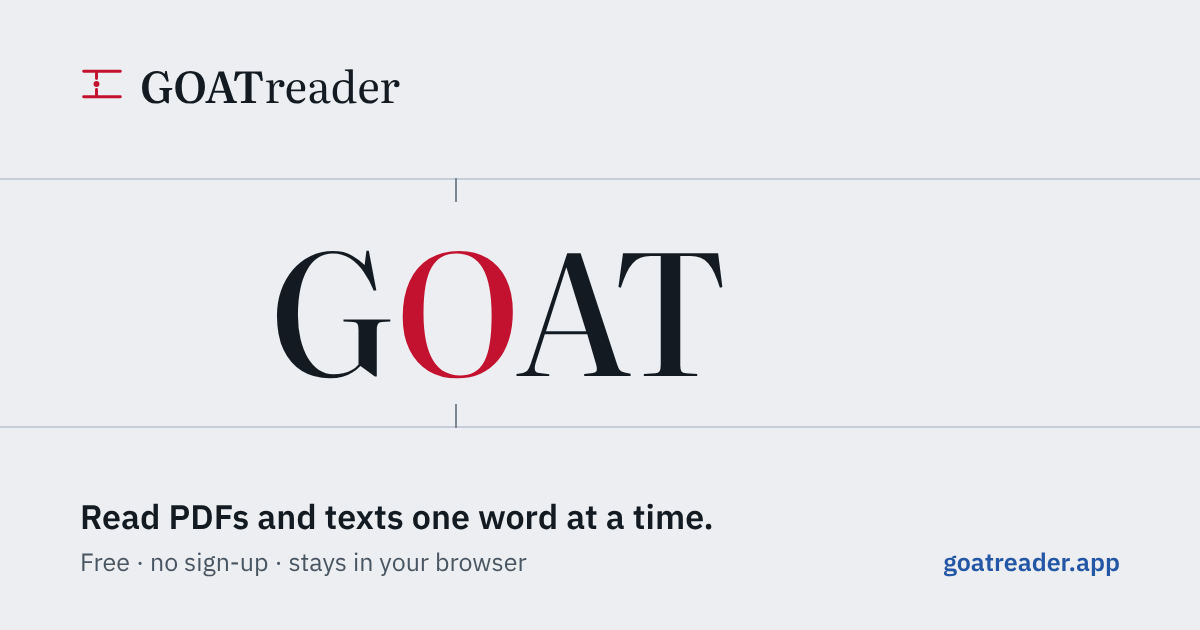
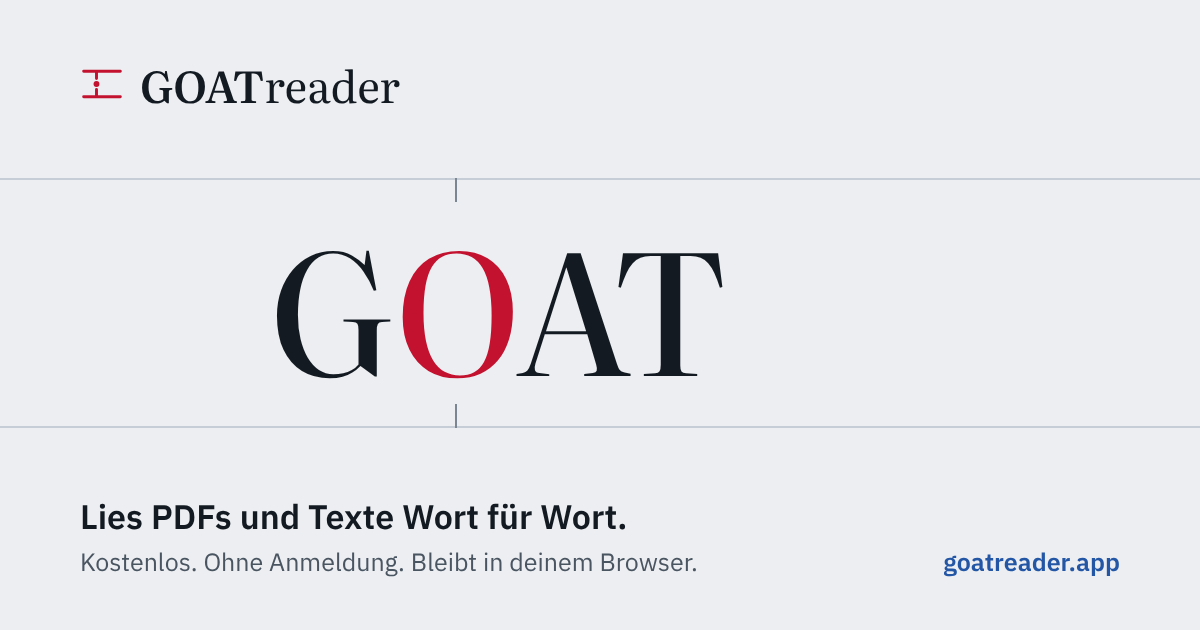
German first: browser language, German preview

Changed region(s): [[0.0617, 0.7841, 0.5858, 0.8444], [0.0617, 0.8746, 0.5858, 0.9349]]

diff --git a/privacy.html b/privacy.html
@@ -1,9 +1,9 @@
 <!doctype html>
-<html lang="en">
+<html lang="de">
 <head>
 <meta charset="utf-8">
 <meta name="viewport" content="width=device-width,initial-scale=1">
-<title>Privacy policy · GOATreader</title>
+<title>GOATreader: Datenschutzerklärung</title>
 <meta name="robots" content="noindex">
 <link rel="icon" href="icon.svg" type="image/svg+xml">
 <link rel="icon" href="favicon-32.png" type="image/png" sizes="32x32">
@@ -18,40 +18,6 @@
       <button type="button" data-lang="en" lang="en" title="English" aria-pressed="true">EN</button><button type="button" data-lang="de" lang="de" title="Deutsch" aria-pressed="false">DE</button>
     </div>
   </nav>
-<section lang="en" data-l="en">
-  <h1>Privacy policy</h1>
-  <p class="muted">As of October 2026. This is a translation; the German version is legally binding.</p>
-
-  <h2>The short version</h2>
-  <p>GOATreader runs entirely in your browser. Texts and files you load or paste are not sent to us or to anyone else. There are no cookies, no tracking, no analytics, and no fonts or scripts from other servers. All files of this website come from the same server.</p>
-
-  <h2>Controller</h2>
-  <p class="address">Victor Batschkus<br>Reinmarplatz 5<br>80637 München<br>Germany<br>Email: <a href="mailto:hello@goatreader.app">hello@goatreader.app</a></p>
-
-  <h2>Hosting</h2>
-  <p>This website is served by GitHub Pages, a service of GitHub, Inc. (San Francisco, USA). When you open the site, GitHub processes the connection data needed to deliver it, for example your IP address, date and time, the requested file and information about your browser. This is needed to deliver the site and to keep the service secure. The legal basis is our legitimate interest in a secure and reliable website (Art. 6(1)(f) GDPR).</p>
-  <p>GitHub processes this data under its own responsibility and, according to GitHub, stores visitors' IP addresses for security purposes. GitHub decides how long (according to GitHub, depending on the purpose and on legal obligations); we have no influence on this and do not receive this data. Data may be transferred to the USA. GitHub is certified under the EU-U.S. Data Privacy Framework, for which the European Commission has adopted an adequacy decision (Art. 45 GDPR).</p>
-  <p>More information: <a href="https://docs.github.com/en/site-policy/privacy-policies/github-general-privacy-statement" rel="noopener">GitHub General Privacy Statement</a></p>
-
-  <h2>Reading PDFs and texts</h2>
-  <p>PDFs are read directly in your browser with the pdf.js library. Texts you paste and files you load never leave your device.</p>
-
-  <h2>Storage on your device</h2>
-  <p>So that GOATreader can keep your recently read texts, your reading position, your settings and your language, the site stores this data in your browser's local storage (localStorage) until you delete it. It stays on your device and is never transmitted. Storing it is strictly necessary to provide the features you use (§ 25(2) no. 2 TDDDG). You can remove single texts in the app under “Load”; to delete everything, clear this site's data in your browser settings.</p>
-
-  <h2>Contact by email</h2>
-  <p>If you email us, we process your email address and your message in order to reply. The legal basis is our legitimate interest in answering enquiries (Art. 6(1)(f) GDPR), or Art. 6(1)(b) GDPR if your enquiry concerns a contract. IONOS SE (Montabaur, Germany) forwards emails sent to hello@goatreader.app on our behalf to a Gmail mailbox (Google Ireland Limited, Ireland). Data may be transferred to the USA in the process. Google LLC is certified under the EU-U.S. Data Privacy Framework, for which the European Commission has adopted an adequacy decision (Art. 45 GDPR). We delete your message once the matter is settled, unless we are legally required to keep it.</p>
-
-  <h2>No obligation, no automated decisions</h2>
-  <p>You are not obliged to provide any data. Without connection data, however, the website cannot be displayed. There is no automated decision-making or profiling.</p>
-
-  <h2>Your rights</h2>
-  <p>Under the GDPR you have the right of access (Art. 15), rectification (Art. 16), erasure (Art. 17), restriction of processing (Art. 18) and data portability (Art. 20). You can also lodge a complaint with a data protection supervisory authority (Art. 77), for example the <a href="https://www.lda.bayern.de/" rel="noopener">Bavarian Data Protection Authority (BayLDA)</a>. Apart from emails you send us, we do not store any personal data about you. Only GitHub can give information about the hosting connection data.</p>
-
-  <h2>Right to object</h2>
-  <p><strong>Where we process data on the basis of Art. 6(1)(f) GDPR, you may object at any time on grounds relating to your particular situation (Art. 21(1) GDPR).</strong> An email to <a href="mailto:hello@goatreader.app">hello@goatreader.app</a> is sufficient.</p>
-  <p class="other"><a href="legal.html">Legal notice</a></p>
-</section>
 <section lang="de" data-l="de">
   <h1>Datenschutzerklärung</h1>
   <p class="muted">Stand: Oktober 2026</p>
@@ -86,16 +52,53 @@
   <p><strong>Soweit wir Daten auf Grundlage von Art. 6 Abs. 1 lit. f DSGVO verarbeiten, kannst du aus Gründen, die sich aus deiner besonderen Situation ergeben, jederzeit widersprechen (Art. 21 Abs. 1 DSGVO).</strong> Eine E-Mail an <a href="mailto:hello@goatreader.app">hello@goatreader.app</a> genügt.</p>
   <p class="other"><a href="legal.html">Impressum</a></p>
 </section>
+<section lang="en" data-l="en">
+  <h1>Privacy policy</h1>
+  <p class="muted">As of October 2026. This is a translation; the German version is legally binding.</p>
+
+  <h2>The short version</h2>
+  <p>GOATreader runs entirely in your browser. Texts and files you load or paste are not sent to us or to anyone else. There are no cookies, no tracking, no analytics, and no fonts or scripts from other servers. All files of this website come from the same server.</p>
+
+  <h2>Controller</h2>
+  <p class="address">Victor Batschkus<br>Reinmarplatz 5<br>80637 München<br>Germany<br>Email: <a href="mailto:hello@goatreader.app">hello@goatreader.app</a></p>
+
+  <h2>Hosting</h2>
+  <p>This website is served by GitHub Pages, a service of GitHub, Inc. (San Francisco, USA). When you open the site, GitHub processes the connection data needed to deliver it, for example your IP address, date and time, the requested file and information about your browser. This is needed to deliver the site and to keep the service secure. The legal basis is our legitimate interest in a secure and reliable website (Art. 6(1)(f) GDPR).</p>
+  <p>GitHub processes this data under its own responsibility and, according to GitHub, stores visitors' IP addresses for security purposes. GitHub decides how long (according to GitHub, depending on the purpose and on legal obligations); we have no influence on this and do not receive this data. Data may be transferred to the USA. GitHub is certified under the EU-U.S. Data Privacy Framework, for which the European Commission has adopted an adequacy decision (Art. 45 GDPR).</p>
+  <p>More information: <a href="https://docs.github.com/en/site-policy/privacy-policies/github-general-privacy-statement" rel="noopener">GitHub General Privacy Statement</a></p>
+
+  <h2>Reading PDFs and texts</h2>
+  <p>PDFs are read directly in your browser with the pdf.js library. Texts you paste and files you load never leave your device.</p>
+
+  <h2>Storage on your device</h2>
+  <p>So that GOATreader can keep your recently read texts, your reading position, your settings and your language, the site stores this data in your browser's local storage (localStorage) until you delete it. It stays on your device and is never transmitted. Storing it is strictly necessary to provide the features you use (§ 25(2) no. 2 TDDDG). You can remove single texts in the app under “Load”; to delete everything, clear this site's data in your browser settings.</p>
+
+  <h2>Contact by email</h2>
+  <p>If you email us, we process your email address and your message in order to reply. The legal basis is our legitimate interest in answering enquiries (Art. 6(1)(f) GDPR), or Art. 6(1)(b) GDPR if your enquiry concerns a contract. IONOS SE (Montabaur, Germany) forwards emails sent to hello@goatreader.app on our behalf to a Gmail mailbox (Google Ireland Limited, Ireland). Data may be transferred to the USA in the process. Google LLC is certified under the EU-U.S. Data Privacy Framework, for which the European Commission has adopted an adequacy decision (Art. 45 GDPR). We delete your message once the matter is settled, unless we are legally required to keep it.</p>
+
+  <h2>No obligation, no automated decisions</h2>
+  <p>You are not obliged to provide any data. Without connection data, however, the website cannot be displayed. There is no automated decision-making or profiling.</p>
+
+  <h2>Your rights</h2>
+  <p>Under the GDPR you have the right of access (Art. 15), rectification (Art. 16), erasure (Art. 17), restriction of processing (Art. 18) and data portability (Art. 20). You can also lodge a complaint with a data protection supervisory authority (Art. 77), for example the <a href="https://www.lda.bayern.de/" rel="noopener">Bavarian Data Protection Authority (BayLDA)</a>. Apart from emails you send us, we do not store any personal data about you. Only GitHub can give information about the hosting connection data.</p>
+
+  <h2>Right to object</h2>
+  <p><strong>Where we process data on the basis of Art. 6(1)(f) GDPR, you may object at any time on grounds relating to your particular situation (Art. 21(1) GDPR).</strong> An email to <a href="mailto:hello@goatreader.app">hello@goatreader.app</a> is sufficient.</p>
+  <p class="other"><a href="legal.html">Legal notice</a></p>
+</section>
 </main>
 <script>
 (() => {
-  const KEY = 'goatreader.lang', TITLES = {en: 'Privacy policy · GOATreader', de: 'Datenschutzerklärung · GOATreader'};
-  let lang = 'en';
+  const KEY = 'goatreader.lang', TITLES = {en: 'GOATreader: Privacy policy', de: 'GOATreader: Datenschutzerklärung'}, ok = l => Object.keys(TITLES).includes(l);
+  // Wie in der App: ?lang in der Adresse (wird gemerkt) > gespeicherte Wahl > Browsersprache > Englisch.
+  // Die Browsersprache zählt, wenn die erste bevorzugte Sprache Deutsch ist (de, de-DE, de-AT …); gespeichert wird sie nicht.
+  const nav = typeof navigator === 'undefined' || !navigator ? [] : navigator.languages && navigator.languages.length ? navigator.languages : [navigator.language];
+  let lang = /^de(?![a-z])/i.test(String(nav[0] || '')) ? 'de' : 'en';
   try {
     const q = (new URLSearchParams(location.search).get('lang') || '').toLowerCase();
-    if (TITLES[q]) { lang = q; localStorage.setItem(KEY, JSON.stringify(q)); }
-    else { const v = JSON.parse(localStorage.getItem(KEY)); if (TITLES[v]) lang = v; }
-  } catch { /* kein Speicher: Englisch */ }
+    if (ok(q)) { lang = q; localStorage.setItem(KEY, JSON.stringify(q)); }
+    else { const v = JSON.parse(localStorage.getItem(KEY)); if (ok(v)) lang = v; }
+  } catch { /* kein Speicher: Browsersprache */ }
   function show(l) {
     document.documentElement.lang = l;
     document.title = TITLES[l];

diff --git a/index.html b/index.html
@@ -1,22 +1,24 @@
 <!doctype html>
-<html lang="en">
+<html lang="de">
 <head>
 <meta charset="utf-8">
 <meta name="viewport" content="width=device-width,initial-scale=1,viewport-fit=cover">
-<title>GOATreader · Read PDFs and texts word by word</title>
-<meta name="description" content="GOATreader shows PDFs and texts one word at a time, with a focus letter, sentence rewind, context view and honest speed numbers. Free, no sign-up, everything stays in your browser.">
+<title>GOATreader: PDFs und Texte Wort für Wort lesen</title>
+<meta name="description" content="GOATreader zeigt PDFs und Texte Wort für Wort, mit Fokusbuchstabe, Satz zurück, Kontextansicht und ehrlichen Tempowerten. Kostenlos, ohne Anmeldung, alles bleibt in deinem Browser.">
 <link rel="canonical" href="https://goatreader.app/">
 <meta name="theme-color" content="#ECEEF1" media="(prefers-color-scheme: light)">
 <meta name="theme-color" content="#0E141A" media="(prefers-color-scheme: dark)">
 <meta property="og:type" content="website">
 <meta property="og:site_name" content="GOATreader">
 <meta property="og:title" content="GOATreader">
-<meta property="og:description" content="Read PDFs and texts one word at a time. Free, no sign-up, everything stays in your browser.">
+<meta property="og:description" content="Lies PDFs und Texte Wort für Wort. Kostenlos, ohne Anmeldung, alles bleibt in deinem Browser.">
 <meta property="og:url" content="https://goatreader.app/">
+<meta property="og:locale" content="de_DE">
+<meta property="og:locale:alternate" content="en_US">
 <meta property="og:image" content="https://goatreader.app/og-image.png">
 <meta property="og:image:width" content="1200">
 <meta property="og:image:height" content="630">
-<meta property="og:image:alt" content="GOATreader: the word GOAT in a reading window, with the focus letter O in red">
+<meta property="og:image:alt" content="GOATreader: das Wort GOAT in einem Lesefenster, mit dem Fokusbuchstaben O in Rot">
 <meta name="twitter:card" content="summary_large_image">
 <link rel="icon" href="icon.svg" type="image/svg+xml">
 <link rel="icon" href="favicon-32.png" type="image/png" sizes="32x32">
@@ -277,7 +279,7 @@ textarea{width:100%;border:1px solid var(--rule);border-radius:8px;background:va
 </style>
 </head>
 <body>
-<noscript><p class="noscript">GOATreader needs JavaScript to run. · GOATreader braucht JavaScript.</p></noscript>
+<noscript><p class="noscript">GOATreader braucht JavaScript. · <span lang="en">GOATreader needs JavaScript to run.</span></p></noscript>
 <div class="app" id="app">
   <header class="bar">
     <div class="brand">
@@ -483,7 +485,7 @@ textarea{width:100%;border:1px solid var(--rule);border-radius:8px;background:va
 const APP = 'GOATreader';
 const I18N = {
   en: {
-    'app.title': 'GOATreader · Read PDFs and texts word by word',
+    'app.title': 'GOATreader: Read PDFs and texts word by word',
     'doc.sampleChip': 'Sample',
     'doc.untitled': 'My text',
     'doc.file': 'File',
@@ -646,7 +648,7 @@ const I18N = {
     'foot.privacyLink': 'Privacy'
   },
   de: {
-    'app.title': 'GOATreader · PDFs und Texte Wort für Wort lesen',
+    'app.title': 'GOATreader: PDFs und Texte Wort für Wort lesen',
     'doc.sampleChip': 'Beispiel',
     'doc.untitled': 'Eigener Text',
     'doc.file': 'Datei',
@@ -860,6 +862,18 @@ Bereit? Unter „Laden“ öffnest du eine PDF oder fügst Text ein. Am Computer
 };
 
 let LANG = 'en';
+const LANGS = Object.keys(I18N);
+const isLang = l => LANGS.includes(l);
+// Bevorzugte Sprachen des Browsers (ohne navigator, etwa in Node, eine leere Liste)
+function browserLangs() {
+  if (typeof navigator === 'undefined' || !navigator) return [];
+  const l = navigator.languages;
+  return l && l.length ? Array.from(l) : [navigator.language].filter(Boolean);
+}
+// Deutsch, wenn die erste bevorzugte Sprache Deutsch ist (de, de-DE, de-AT, de-CH …), sonst Englisch
+const langFromBrowser = tags => (/^de(?![a-z])/i.test(String((tags && tags[0]) || '')) ? 'de' : 'en');
+// Reihenfolge: ?lang in der Adresse > gespeicherte Wahl > Browsersprache > Englisch
+const pickLang = (q, saved, tags = browserLangs()) => (isLang(q) ? q : isLang(saved) ? saved : langFromBrowser(tags));
 const LOCALE = { en: 'en-US', de: 'de-DE' };
 const PLURAL = { en: new Intl.PluralRules('en-US'), de: new Intl.PluralRules('de-DE') };
 const NF = { en: new Intl.NumberFormat('en-US'), de: new Intl.NumberFormat('de-DE') };
@@ -1490,11 +1504,12 @@ const FOCAL = 0.38;               // entspricht --focal
 const canStore = store.set('goatreader.probe', 1);
 const newId = () => 'd' + Date.now().toString(36) + Math.random().toString(36).slice(2, 6);
 {
-  // Sprache: ?lang=de|en in der Adresse hat Vorrang und wird gemerkt, sonst die gespeicherte Wahl, sonst Englisch
+  // Sprache: ?lang=de|en in der Adresse hat Vorrang und wird gemerkt, dann die gespeicherte Wahl, dann die Browsersprache, sonst Englisch.
+  // Die erkannte Browsersprache wird nicht gespeichert, nur eine ausdrückliche Wahl (Adresse oder Umschalter).
   let q = '';
   try { q = (new URLSearchParams(location.search).get('lang') || '').toLowerCase(); } catch { /* keine Adresse */ }
-  if (I18N[q]) { LANG = q; store.set(K.lang, q); }
-  else { const l = store.get(K.lang, null); LANG = I18N[l] ? l : 'en'; }
+  LANG = pickLang(q, store.get(K.lang, null));
+  if (isLang(q)) store.set(K.lang, q);
 }
 
 const el = {
@@ -1843,10 +1858,10 @@ async function wake(on) {
 
 // ================= language =================
 function setLang(l) {
-  const next = I18N[l] ? l : 'en';
+  const next = isLang(l) ? l : 'en';
+  store.set(K.lang, next); // ausdrückliche Wahl: wird gemerkt, auch wenn die Sprache schon aktiv war (etwa über die Browsersprache)
   if (next === LANG) return;
   LANG = next;
-  store.set(K.lang, LANG);
   document.documentElement.lang = LANG;
   document.title = t('app.title');
   applyStatic();

diff --git a/legal.html b/legal.html
@@ -1,9 +1,9 @@
 <!doctype html>
-<html lang="en">
+<html lang="de">
 <head>
 <meta charset="utf-8">
 <meta name="viewport" content="width=device-width,initial-scale=1">
-<title>Legal notice · GOATreader</title>
+<title>GOATreader: Impressum</title>
 <meta name="robots" content="noindex">
 <link rel="icon" href="icon.svg" type="image/svg+xml">
 <link rel="icon" href="favicon-32.png" type="image/png" sizes="32x32">
@@ -18,16 +18,6 @@
       <button type="button" data-lang="en" lang="en" title="English" aria-pressed="true">EN</button><button type="button" data-lang="de" lang="de" title="Deutsch" aria-pressed="false">DE</button>
     </div>
   </nav>
-<section lang="en" data-l="en">
-  <h1>Legal notice</h1>
-  <p class="muted">Information pursuant to § 5 DDG and § 18 (1) MStV (German law)</p>
-  <p class="address">Victor Batschkus<br>Reinmarplatz 5<br>80637 München<br>Germany</p>
-  <h2>Contact</h2>
-  <p>Email: <a href="mailto:hello@goatreader.app">hello@goatreader.app</a></p>
-  <h2>About GOATreader</h2>
-  <p>GOATreader is a free reading tool run privately by Victor Batschkus. There are no ads, no accounts and no paid features.</p>
-  <p class="other"><a href="privacy.html">Privacy policy</a></p>
-</section>
 <section lang="de" data-l="de">
   <h1>Impressum</h1>
   <p class="muted">Angaben gemäß § 5 DDG und § 18 Abs. 1 MStV</p>
@@ -38,16 +28,29 @@
   <p>GOATreader ist ein kostenloses, privat betriebenes Lesewerkzeug von Victor Batschkus. Es gibt keine Werbung, keine Anmeldung und keine kostenpflichtigen Funktionen.</p>
   <p class="other"><a href="privacy.html">Datenschutzerklärung</a></p>
 </section>
+<section lang="en" data-l="en">
+  <h1>Legal notice</h1>
+  <p class="muted">Information pursuant to § 5 DDG and § 18 (1) MStV (German law)</p>
+  <p class="address">Victor Batschkus<br>Reinmarplatz 5<br>80637 München<br>Germany</p>
+  <h2>Contact</h2>
+  <p>Email: <a href="mailto:hello@goatreader.app">hello@goatreader.app</a></p>
+  <h2>About GOATreader</h2>
+  <p>GOATreader is a free reading tool run privately by Victor Batschkus. There are no ads, no accounts and no paid features.</p>
+  <p class="other"><a href="privacy.html">Privacy policy</a></p>
+</section>
 </main>
 <script>
 (() => {
-  const KEY = 'goatreader.lang', TITLES = {en: 'Legal notice · GOATreader', de: 'Impressum · GOATreader'};
-  let lang = 'en';
+  const KEY = 'goatreader.lang', TITLES = {en: 'GOATreader: Legal notice', de: 'GOATreader: Impressum'}, ok = l => Object.keys(TITLES).includes(l);
+  // Wie in der App: ?lang in der Adresse (wird gemerkt) > gespeicherte Wahl > Browsersprache > Englisch.
+  // Die Browsersprache zählt, wenn die erste bevorzugte Sprache Deutsch ist (de, de-DE, de-AT …); gespeichert wird sie nicht.
+  const nav = typeof navigator === 'undefined' || !navigator ? [] : navigator.languages && navigator.languages.length ? navigator.languages : [navigator.language];
+  let lang = /^de(?![a-z])/i.test(String(nav[0] || '')) ? 'de' : 'en';
   try {
     const q = (new URLSearchParams(location.search).get('lang') || '').toLowerCase();
-    if (TITLES[q]) { lang = q; localStorage.setItem(KEY, JSON.stringify(q)); }
-    else { const v = JSON.parse(localStorage.getItem(KEY)); if (TITLES[v]) lang = v; }
-  } catch { /* kein Speicher: Englisch */ }
+    if (ok(q)) { lang = q; localStorage.setItem(KEY, JSON.stringify(q)); }
+    else { const v = JSON.parse(localStorage.getItem(KEY)); if (ok(v)) lang = v; }
+  } catch { /* kein Speicher: Browsersprache */ }
   function show(l) {
     document.documentElement.lang = l;
     document.title = TITLES[l];

diff --git a/README.md b/README.md
@@ -4,7 +4,7 @@ GOATreader shows PDFs and texts one word at a time, with a focus letter, sentenc
 
 The site is fully static (HTML, CSS, JavaScript). It needs no server code, no database and no build step, so any static host works.
 
-The interface is in English by default. Visitors switch to German with the EN/DE buttons. A link with `?lang=de` (for example `https://goatreader.app/?lang=de`) opens the German version directly.
+The language follows the browser: if German is the visitor's first preferred language (de, de-DE, de-AT, de-CH …), the site starts in German, otherwise in English. The EN/DE buttons still switch the language, and that choice is remembered and wins over the browser language. A link with `?lang=de` or `?lang=en` forces a language and is remembered as well, so German campaign links can keep using `https://goatreader.app/?lang=de`. The detected browser language itself is never stored. The legal notice and the privacy policy follow the same rules. The fixed page head (title, description, preview image for link previews) is German.
 
 ## Files
 
@@ -70,6 +70,10 @@ Bei anderen Anbietern (Porkbun, Cloudflare und Co.) sind die Einträge dieselben
 ### Aktualisieren
 
 Geänderte Dateien im Repository über **Add file → Upload files** ersetzen. GitHub Pages veröffentlicht danach automatisch neu.
+
+### Sprache
+
+Die Seite richtet sich nach der Browsersprache: Ist Deutsch die erste bevorzugte Sprache (de, de-DE, de-AT, de-CH …), startet sie auf Deutsch, sonst auf Englisch. Mit EN/DE lässt sich weiter umschalten; diese Wahl merkt sich der Browser, und sie gilt dann vor der Browsersprache. Ein Link mit `?lang=de` oder `?lang=en` erzwingt die Sprache und wird ebenfalls gemerkt. Deutsche Kampagnenlinks können also weiter `https://goatreader.app/?lang=de` verwenden. Die erkannte Browsersprache selbst wird nicht gespeichert. Impressum und Datenschutzerklärung folgen denselben Regeln. Der feste Seitenkopf (Titel, Beschreibung und Vorschaubild für Linkvorschauen) ist deutsch.
 
 ### Rechtliches (keine Rechtsberatung)
 
